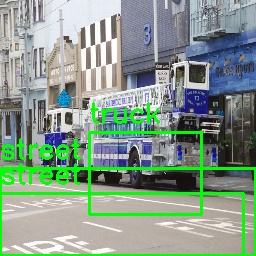
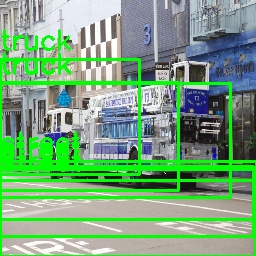
infernece

Changed region(s): [[0.0, 0.0938, 1.0, 1.0]]

diff --git a/inference.py b/inference.py
@@ -14,238 +14,7 @@ from torchvision import transforms
 import cv2
 import numpy as np
 import sys
-
-class TextEncoder:
-    def __init__(self, model_name="openai/clip-vit-base-patch32"):
-        self.tokenizer = CLIPTokenizer.from_pretrained(model_name)
-        self.model = CLIPTextModel.from_pretrained(model_name)
-        self.model.eval()  # Set the model to evaluation mode
-
-    def encode(self, text):
-        # Tokenize the input text
-        inputs = self.tokenizer(text, return_tensors="pt", padding=True, truncation=True)
-        
-        # Get the text features
-        with torch.no_grad():
-            outputs = self.model(**inputs)
-            text_features = outputs.last_hidden_state.mean(dim=1)
-        
-        return text_features.squeeze()
-
-    def encode_batch(self, texts):
-        # Tokenize the batch of input texts
-        inputs = self.tokenizer(texts, return_tensors="pt", padding=True, truncation=True)
-        
-        # Get the text features for the batch
-        with torch.no_grad():
-            outputs = self.model(**inputs)
-            text_features = outputs.last_hidden_state.mean(dim=1)
-        
-        return text_features
-
-# # Example usage
-# if __name__ == "__main__":
-#     encoder = TextEncoder()
-    
-#     # Single word encoding
-#     word = "example"
-#     vector = encoder.encode(word)
-#     print(f"Vector for '{word}':")
-#     print(vector)
-#     print(f"Vector shape: {vector.shape}")
-    
-#     # Batch encoding
-#     words = ["hello", "world", "python"]
-#     vectors = encoder.encode_batch(words)
-#     print(f"\nVectors for {words}:")
-#     print(vectors)
-#     print(f"Vectors shape: {vectors.shape}")
-
-
-
-def parse_objects(annotations):
-    targets =  []
-    for i in range(len(annotations)):
-        targets.append({
-            'labels': annotations[i]['labels'].view(-1),
-            'boxes': annotations[i]['boxes'].view(-1, 4)
-        })
-
-    return targets
-
-
-
-class RelationshipAttention(nn.Module):
-    def __init__(self, dim):
-        super(RelationshipAttention, self).__init__()
-        self.dim = dim
-        # self.q = nn.Linear(dim, dim)
-        # self.k = nn.Linear(dim, dim)
-
-    def forward(self, q, k, top_k_instances=100, top_k_relationships=5):
-        # q = self.q(q) query - subject
-        # k = self.k(k) key - object
-
-        device = q.device
-
-        scores = einsum('b i d, b d j -> b i j', q, k.transpose(-1, -2))
-        scores = torch.softmax(scores, dim=-1)
-        scores1 = scores.clone()
-
-
-        #  get diagonal
-        diag = scores.diagonal(dim1=-2, dim2=-1)
-
-        # relationship scores
-        top_k_indices = torch.topk(diag, k=top_k_instances, dim=-1)[1]
-        top_k_indices= torch.sort(top_k_indices, dim=-1, descending=False)[0]
-        # print(top_k_indices)
-        top_k_indices1 = top_k_indices.clone()
-        scores = scores[torch.arange(scores.size(0)).unsqueeze(1), top_k_indices]
-        top_k_indices = repeat(top_k_indices, 'b n ->  b r n', r=scores.shape[1])
-        relationship_scores = scores.gather(-1, top_k_indices)
-        # print(relationship_scores.shape)
-
-        max_int_value = 1e9
-        relationship_scores.masked_fill_(torch.eye(relationship_scores.shape[1], relationship_scores.shape[2], dtype=bool, device=device).unsqueeze(0).expand(relationship_scores.shape[0], -1, -1), max_int_value)
-
-
-        # get top k relationships, subject-object indices
-        top_k_rel_indices = torch.topk(relationship_scores, k=top_k_relationships, dim=-1)[1]
-        # add all diag indices
-
-        split_shape = top_k_rel_indices.shape[-1] * top_k_rel_indices.shape[-2]
-
-        top_k_rel_indices = relationship_scores.scatter(-1, top_k_rel_indices, -1)
-
-        indices = torch.where(top_k_rel_indices == -1)
-        indices = torch.stack(indices, dim=-1)
-        indices = indices.split(split_shape, dim=-2)
-        indices = torch.stack(indices)
-
-        # map to original indices
-        top_k_indices1 = repeat(top_k_indices1, 'b k -> b n k', n=split_shape)
-        subject_object_indices = top_k_indices1.gather(-1, indices)
-
-       
-        # Replace the first index in subject_object_indices with batch ids
-        batch_size = subject_object_indices.shape[0]
-        batch_ids = torch.arange(batch_size).unsqueeze(-1).unsqueeze(-1).expand_as(subject_object_indices[:, :, :1]).to(device)
-
-        # replace the first index with batch ids
-        subject_object_indices = torch.cat((batch_ids, subject_object_indices[:, :, 1:]), dim=-1)
-
-        # subject and object indices
-        subject_indices = subject_object_indices[:, :, :-1]
-        object_indices = torch.cat((batch_ids, subject_object_indices[:, :, -1:]), dim=-1)
-
-        # get the subject and object embeddings
-        subject_embeds = q[subject_indices[:, :, 0], subject_indices[:, :, 1]]
-        object_embeds = q[object_indices[:, :, 0], object_indices[:, :, 1]]
-
-        # add up the subject and object embeddings to get the relationship embeddings
-        relationship_embeds = subject_embeds + object_embeds
-        # layer norm
-        relationship_embeds = F.layer_norm(relationship_embeds, normalized_shape=relationship_embeds.shape[-1:])
-
-        return  scores1, subject_object_indices, relationship_embeds
-
-        
-
-        
-class SceneGraphViT(nn.Module):
-    def __init__(self, 
-        dim=1024,
-        image_size=256,
-        patch_size=32,
-        depth=12,
-        n_heads=16,
-        mlp_dim=2048,
-        num_classes=100
-        ):
-        super(SceneGraphViT, self).__init__()
-
-        # self.vit = ViT(
-        #     dim=dim,
-        #     image_size=image_size,
-        #     patch_size=patch_size,
-        #     depth=depth,
-        #     n_heads=n_heads,
-        #     mlp_dim=mlp_dim
-        # )
-
- 
-        self.vit = Dinov2Model.from_pretrained("facebook/dinov2-base")
-        # freeze the model
-        for param in self.vit.parameters():
-            param.requires_grad = False
-
-        self.subject_head = nn.Sequential(
-            nn.Linear(dim, dim),
-            nn.GELU(),
-            nn.Linear(dim, dim),
-            nn.GELU(),
-            nn.Linear(dim, dim),
-            nn.GELU(),
-            nn.LayerNorm(dim)
-        )
-        self.object_head = nn.Sequential(
-            nn.Linear(dim, dim),
-            nn.GELU(),
-            nn.Linear(dim, dim),
-            nn.GELU(),
-            nn.Linear(dim, dim),
-            nn.GELU(),
-            nn.LayerNorm(dim)
-        )
-
-
-        self.relationship_attention = RelationshipAttention(dim)
-
-        self.matcher = HungarianMatcher()
-
-
-        weight_dict = {'loss_ce': 1, 'loss_bbox': 5}
-        weight_dict['loss_giou'] = 2
-
-        losses = ['labels', 'boxes', 'cardinality']
-        self.criterion = SetCriterion(num_classes, matcher=self.matcher, weight_dict=weight_dict,
-                             eos_coef=0.1, losses=losses)
-
-        self.classifier = nn.Linear(dim, num_classes + 1)
-        self.bbox_mlp = nn.Sequential(
-            nn.Linear(dim, 4),
-            nn.ReLU()
-        )
-
-    def forward(self, x):
-
-        b = len(x)
-
-        x = self.vit(x)
-        x = x.last_hidden_state
-        
-        subject_logits = self.subject_head(x)
-        subject_logits = x + subject_logits
-
-        object_logits = self.object_head(x)
-        object_logits = x + object_logits
-
-        # compute relationship attention ,  relationship_embeds - Rij => (b, number of relationships, dim)
-        scores, subject_object_indices, relationship_embeds = self.relationship_attention(q=subject_logits, k=object_logits)
-
-        # object instances => subject == object
-        object_indices = torch.where(subject_object_indices[:, :, 1] == subject_object_indices[:, :, 2])
-
-
-        object_relationship_embeds = relationship_embeds[object_indices]
-        object_relationship_embeds = rearrange(object_relationship_embeds, '(b n) d -> b n d', b=b)
-
-
-        bbox = self.bbox_mlp(object_relationship_embeds)
-        logits = self.classifier(object_relationship_embeds)
-
-        return logits, bbox
+from scene_graph.model import SceneGraphViT
 
 
 
@@ -254,17 +23,12 @@ if __name__ == "__main__":
 
     model = SceneGraphViT(
     dim=768,
-    image_size=256,
-    patch_size=32,
-    depth=12,
-    n_heads=16,
-    mlp_dim=2048,
     num_classes=100
     )
     
 
     # load the model
-    ckpt = torch.load("outputs/scene-graph/checkpoints/scene-graph_run4.pt")
+    ckpt = torch.load("outputs/scene-graph/checkpoints/scene-graph_run5.pt")
 
     model.load_state_dict(ckpt['state_dict'])
 

diff --git a/scene_graph/model.py b/scene_graph/model.py
@@ -54,7 +54,8 @@ class TextEncoder:
 #     print(vectors)
 #     print(f"Vectors shape: {vectors.shape}")
 
-
+def exists(val):
+    return val is not None
 
 def parse_objects(annotations):
     targets =  []
@@ -141,55 +142,45 @@ class RelationshipAttention(nn.Module):
 
         
 
+class MLP(nn.Module):
+    def __init__(self, dim):
+        super(MLP, self).__init__()
+        self.net = nn.Sequential(
+            nn.Linear(dim, dim),
+            nn.GELU(),
+            nn.Linear(dim, dim),
+            nn.GELU(),
+            nn.Linear(dim, dim),
+            nn.GELU(),
+            nn.LayerNorm(dim)
+        )
+
+    def forward(self, x):
+        return self.net(x)
+
         
 class SceneGraphViT(nn.Module):
     def __init__(self, 
-        cfg
+        dim,
+        num_classes,
         ):
         super(SceneGraphViT, self).__init__()
 
-        dim = cfg.model.dim
-        image_size = cfg.model.image_size
-        patch_size = cfg.model.patch_size
-        depth = cfg.model.depth
-        n_heads = cfg.model.n_heads
-        mlp_dim = cfg.model.mlp_dim
-        num_classes = cfg.model.num_classes
-
-
-        # self.vit = ViT(
-        #     dim=dim,
-        #     image_size=image_size,
-        #     patch_size=patch_size,
-        #     depth=depth,
-        #     n_heads=n_heads,
-        #     mlp_dim=mlp_dim
-        # )
-
+        # dim = cfg.model.dim
+        # image_size = cfg.model.image_size
+        # patch_size = cfg.model.patch_size
+        # depth = cfg.model.depth
+        # n_heads = cfg.model.n_heads
+        # mlp_dim = cfg.model.mlp_dim
+        # num_classes = cfg.model.num_classes
  
         self.vit = Dinov2Model.from_pretrained("facebook/dinov2-base")
         for param in self.vit.parameters():
             param.requires_grad = False
 
 
-        self.subject_head = nn.Sequential(
-            nn.Linear(dim, dim),
-            nn.GELU(),
-            nn.Linear(dim, dim),
-            nn.GELU(),
-            nn.Linear(dim, dim),
-            nn.GELU(),
-            nn.LayerNorm(dim)
-        )
-        self.object_head = nn.Sequential(
-            nn.Linear(dim, dim),
-            nn.GELU(),
-            nn.Linear(dim, dim),
-            nn.GELU(),
-            nn.Linear(dim, dim),
-            nn.GELU(),
-            nn.LayerNorm(dim)
-        )
+        self.subject_head = MLP(dim)
+        self.object_head = MLP(dim)
 
         self.relationship_attention = RelationshipAttention(dim)
 
@@ -211,7 +202,7 @@ class SceneGraphViT(nn.Module):
             nn.ReLU()
         )
 
-    def forward(self, x, annotations):
+    def forward(self, x, annotations=None):
 
         b = len(x)
 
@@ -238,6 +229,9 @@ class SceneGraphViT(nn.Module):
         bbox = self.bbox_mlp(object_relationship_embeds)
         logits = self.classifier(object_relationship_embeds)
 
+        if not exists(annotations):
+            return logits, bbox
+
         outputs = {}
         outputs['pred_logits'] = logits
         outputs['pred_boxes'] = bbox
@@ -260,8 +254,9 @@ class SceneGraphViT(nn.Module):
         matched_subject_object_indices = subject_object_indices[indx[:, 0], indx[:, 1]]
 
         targets = torch.zeros_like(scores)
+        
+        #TODO  set the matched indices to prob
         targets[matched_subject_object_indices[:, 0], matched_subject_object_indices[:, 1], matched_subject_object_indices[:, 2]] = 1
-
 
         loss_scores = torch.nn.functional.binary_cross_entropy_with_logits(scores, targets)
         loss.update({'loss_scores': loss_scores})

diff --git a/sample.py b/sample.py
@@ -267,7 +267,7 @@ if __name__ == "__main__":
 
 
     # load the model
-    model.load_state_dict(torch.load("scene_graph_vit.pth"))
+    model.load_state_dict(torch.load("outputs/scene-graph/checkpoints/scene-graph_run5.pt"))
 
 
 
